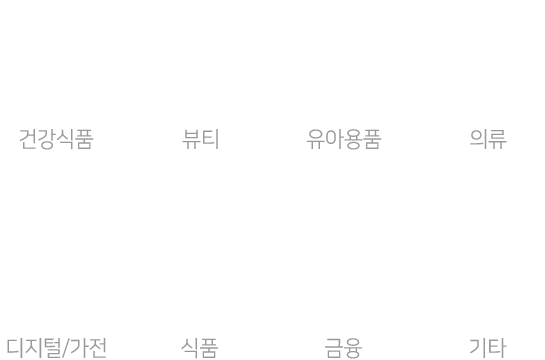
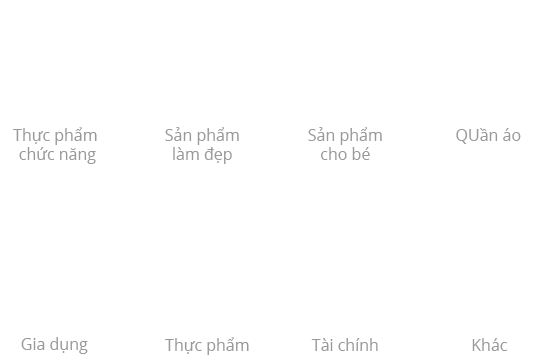
update page

diff --git a/index.html b/index.html
@@ -4,21 +4,21 @@
 	<meta http-equiv="Content-Type" content="text/html; charset=utf-8"/>
 	<meta name="viewport" content="width=device-width,initial-scale=1.0,minimum-scale=1.0,maximum-scale=1.0,user-scalable=no">
 	<meta name="format-detection" content="telephone=no">
-	<meta name="Author" content="TRIPATH">
-	<meta name="Keywords" content="TRIPATH">
-	<meta name="Description" content="TRIPATH">
+	<meta name="Author" content="트라이패스">
+	<meta name="Keywords" content="트라이패스">
+	<meta name="Description" content="트라이패스">
 	<title>LinkedMarket</title>
 	<link rel="stylesheet" href="asset/styles/reset.css" />
 	<link rel="stylesheet" href="asset/styles/font.css" />
 	<link rel="stylesheet" href="asset/styles/common.css" />
 	<script type="text/javascript" src="asset/js/jquery-2.2.4.min.js"></script>
-	<script type="text/javascript" src="asset/js/jquery.bxslider.js"></script>
+	<script type="text/javascript" src="asset/js/jquery.bxslider.js"></script>		 
 	<script>
 	$(document).ready(function() {
 		$('.phoneSlider').bxSlider({
         	auto: true,
         	pager: true,
-        	autoControlsSelector :true,
+        	autoControlsSelector :true,	
         	pause: 3000
 		});
 		$(function() {
@@ -35,16 +35,16 @@
 		<div class="IconCounsel">
 			<div class="IconCounselInner">
 				<div class="icon"><a href="https://chat.linkedmarket.co.kr/customer/chat/bmkRhqjO" target="_blank">
-					<img src="asset/images/IconCounsel.png" alt="Tư vấn, liên hệ"></a>
+					<img src="asset/images/IconCounsel.png" alt="상담,문의하기"></a>
 					<div class="notiWrap" id="noti">
-						<p>Nếu Quý khách có bất kỳ thắc mắc nào<br/> <strong>hãy nhấn nút kết nối tư vấn ngay với chúng tôi.</strong></p>
+						<p><span>고객님!</span> 궁금하신 내용이 있으면<br/> <strong>상담 버튼을 눌러주세요.</strong></p>
 					</div>
 				</div>
 			</div>
 		</div>
 		<!--mainHeader-->
 		<div class="mainHeader">
-			<h1><img src="asset/images/title.png" alt="Nền tảng bán hàng online toàn cầu Sell Everything Everywhere"/></h1>
+			<h1><img src="asset/images/title.png" alt="글로벌 온라인 방문판매 플랫폼 Sell Everything Everywhere"/></h1>
 			<div class="bg"><img src="asset/images/bgMain.png" alt=""></div>
 		</div>
 		<!--//mainHeader-->
@@ -53,24 +53,24 @@
 			<div class="subcontent subcontent1">
 				<h3><img src="asset/images/subTxt01.png" alt="about Linked Market"></h3>
 				<div class="subText">
-					Các tư vấn viên online của Linked Market tiến hành tư vấn, bán sản phẩm và dịch vụ đã đăng ký trên Linked Market đến khách hàng.
+					링크드마켓의 온라인 카운셀러가 입점한 상품과 서비스를 세일즈 해드립니다.
 				</div>
 				<div class="subInfo">
-					<img src="asset/images/sub01.png" alt="ác tư vấn viên online của Linked Market
-					tiến hành tư vấn, bán sản phẩm và dịch vụ đã đăng ký trên Linked Market đến khách hàng">
+					<img src="asset/images/sub01.png" alt="링크드마켓의 온라인 카운셀러가
+					입점한 상품과 서비스를 세일즈 해드립니다">
 				</div>
 			</div>
-
+			
 			<div class="subcontent subcontent2">
-				<h3><img src="asset/images/subTxt02.png" alt="Bán hàng 1:1 tiện lợi, nhanh chóng chỉ với một cái nhấn chuột"></h3>
+				<h3><img src="asset/images/subTxt02.png" alt="One 클릭으로 간편한 1:1 세일즈"></h3>
 				<div class="subText">
-					Quảng bá sản phẩm thông qua các kênh online/ offline đa dạng.
-					Cung cấp đến khách hàng môi trường bán hàng tiện lợi, nhanh chóng chỉ với một lần nhấn chuột.
-					One-Strop! Đơn giản tiện lợi từ việc tư vấn cho khách hàng đến việc giao dịch.
+					온/오프라인 다양한 채널을 통한 상품홍보와
+					고객의 클릭 한번으로 간편한 세일즈 환경을 제공합니다.
+					고객 인입부터 거래까지 ONE-STOP!
 				</div>
 				<div class="subInfo">
 					<div class="phoneWrap">
-
+						
 						<div class="phoneSliderWrap">
 							<div class="phoneSlider">
 								<div class="screen"><img src="asset/images/screen01.png"></div>
@@ -78,45 +78,45 @@
 								<div class="screen"><img src="asset/images/screen03.png"></div>
 							</div>
 						</div>
-					</div>
+					</div>	
 				</div>
 			</div>
 
 			<div class="subcontent subcontent3">
-				<h3><img src="asset/images/subTxt03.png" alt="Dịch vụ an toàn dựa trên nền tảng Cloud"></h3>
+				<h3><img src="asset/images/subTxt03.png" alt="클라우드 기반의 안정적 서비스"></h3>
 				<div class="subText">
-					Cung cấp dịch vụ an toàn dựa trên nền tảng Cloud
-					và cho phép kiểm tra hiệu quả bán hàng mọi lúc mọi nơi một cách nhanh chóng, dễ dàng.
-					Mang đến tính bảo mật cao và quản lý cơ sở hạ tầng dịch vụ đám mây (Cloud Service Infrastructure Management) phù hợp cho các dịch vụ toàn cầu mà không làm gián đoạn dịch vụ.
+					클라우드 기반의 서비스를 제공하여 구축 및 설치가 필요 없고 
+					언제 어디서든 판매효과를 확인 하실 수 있습니다.
+					글로벌 서비스에 적합한 클라우드 서비스 인프라 관리 및 강력한 보안을 서비스 장애없이 제공
 				</div>
 				<div class="subInfo">
-					<img src="asset/images/sub02.png" alt="Cung cấp dịch vụ an toàn dựa trên nền tảng Cloud.">
+					<img src="asset/images/sub02.png" alt="클라우드 기반의 안정적인 서비스를 제공합니다.">
 				</div>
 			</div>
 
 			<div class="subcontent subcontent4">
-				<h3><img src="asset/images/subTxt04.png" alt="Sản phẩm đa dạng"></h3>
+				<h3><img src="asset/images/subTxt04.png" alt="입점상품"></h3>
 				<div class="productWrap">
 					<ul>
-						<li><img src="asset/images/product01.png" alt="Thực phẩm chức năng"></li>
-						<li><img src="asset/images/product02.png" alt="Sản phẩm làm đẹp"></li>
-						<li><img src="asset/images/product03.png" alt="Sản phẩm cho bé"></li>
-						<li><img src="asset/images/product04.png" alt="Quần áo"></li>
-						<li><img src="asset/images/product05.png" alt="Sản phẩm gia dụng/ kỹ thuật số"></li>
-						<li><img src="asset/images/product06.png" alt="Thực phẩm"></li>
-						<li><img src="asset/images/product07.png" alt="Tài chính"></li>
-						<li><img src="asset/images/product08.png" alt="Sản phẩm khác"></li>
+						<li><img src="asset/images/product01.png" alt="건강식품"></li>
+						<li><img src="asset/images/product02.png" alt="뷰티"></li>
+						<li><img src="asset/images/product03.png" alt="유아용품"></li>
+						<li><img src="asset/images/product04.png" alt="의류"></li>
+						<li><img src="asset/images/product05.png" alt="디지털/가전"></li>
+						<li><img src="asset/images/product06.png" alt="식품"></li>
+						<li><img src="asset/images/product07.png" alt="금융"></li>
+						<li><img src="asset/images/product08.png" alt="기타"></li>
 					</ul>
-				</div>
+				</div>		
 			</div>
 
 			<div class="subcontent subcontent5">
 				<div class="subInfo">
-					<img src="asset/images/subTxt05.png" alt="Dịch vụ">
+					<img src="asset/images/subTxt05.png" alt="서비스">
 					<ul>
-						<li>1. Cung cấp nền tảng bán hàng online toàn cầu</li>
-						<li>2. Bán hàng 1:1 nhanh chóng, tiện lợi chỉ với một cái nhấn chuột</li>
-						<li>3. Dịch vụ an toàn dựa trên nền tảng Cloud</li>
+						<li>1. 온라인 기반의 방문판매 조직 제공</li>
+						<li>2. One 클릭으로 간편한 1대1 세일즈</li>
+						<li>3. 클라우드 기반의 안정적 서비스</li>
 					</ul>
 				</div>
 			</div>
@@ -131,23 +131,23 @@
 					<img src="asset/images/tripathLogo.png" alt="TRIPATH"></a>
 				</div>
 				<address>
-					#201 C-dong, Woorim Lions Valley, 168, Gasan Digital 1-ro, Geumcheon-gu, Republic of Korea.<br>
+					서울 특별시 금천구 가산디지털 1로 168 우림라이온스밸리 C동 201호<br>
 					<strong>T</strong> 070 7574 7676 <strong class="ml10">F</strong> 02 2026 3201
 				</address>
 				<div class="homepage"><a href="http://www.tripath.co.kr/" target="_blank">www.tripath.co.kr</a></div>
-				<div class="copy">TRIPATHⓒ 2018 All rights reserved.</div>
+				<div class="copy">TRIPATHⓒ 2018 All rights reserved.</div>	
 				<div class="countryWrap">
-					<img src="asset/images/country.png" alt="Quốc gia">
+					<img src="asset/images/country.png" alt="서비스지역">
 					<ul>
-						<li>Hàn Quốc</li>
-						<li>Việt Nam</li>
-						<li>Thái Lan</li>
-						<li>Indonesia</li>
+						<li>대한민국</li>
+						<li>베트남</li>
+						<li>태국</li>
+						<li>인도네시아</li>
 					</ul>
 				</div>
 			</div>
 		</div>
-		<!--//footer-->
+		<!--//footer-->	
 	</div>
 </body>
 </html>
